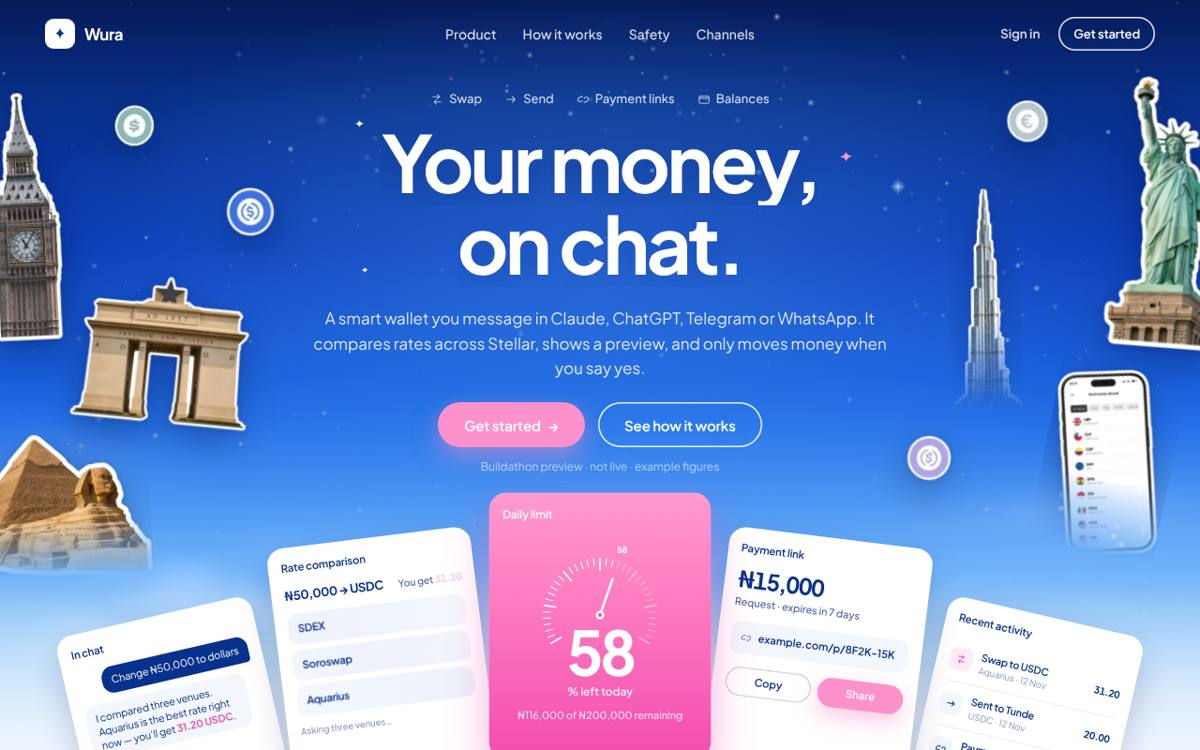
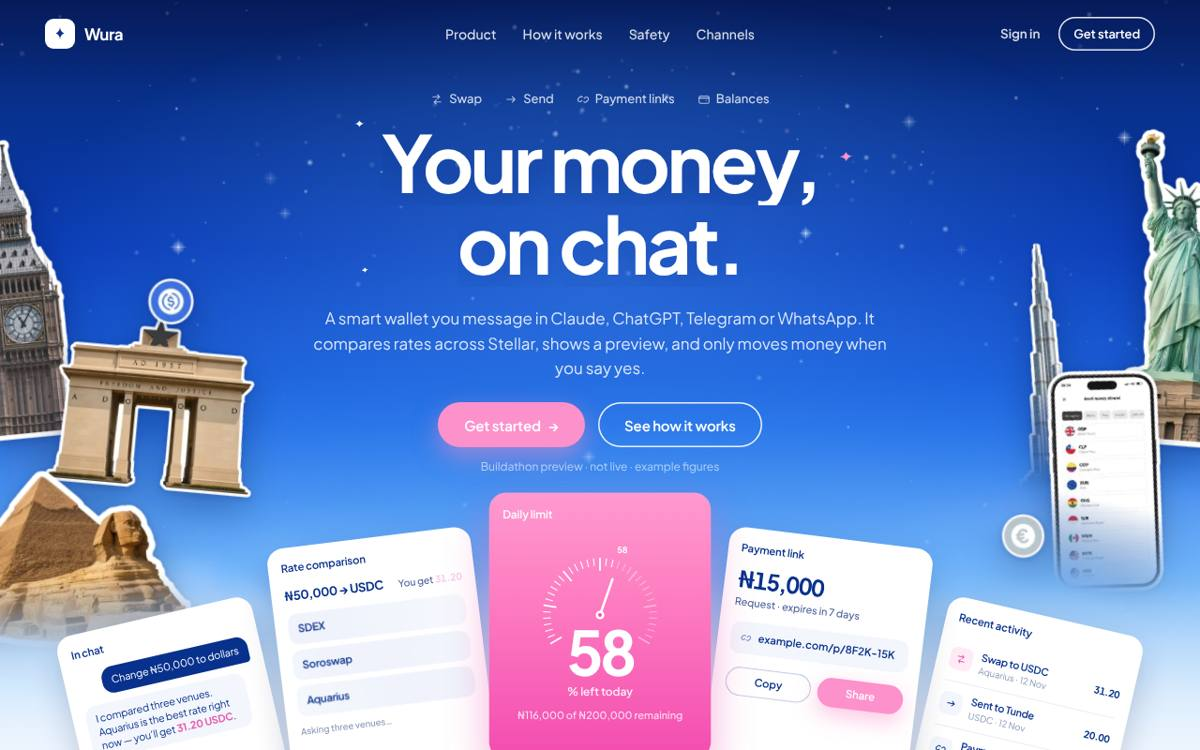
Landing hero: calmer sticker collage, one cluster per side
The hero had ten stickers spread from top to bottom, with coins floating
on their own, so it read as busy. Now each side is one overlapping
collage that sits low on the edge, bleeds off-screen and fades behind the
arc cards, which leaves the sky around the headline clear (closer to the
Payrit reference):
- left: Big Ben, Black Star Gate, pyramid and a USDC coin
- right: Statue of Liberty, Burj Khalifa, phone and a euro coin
The coin-dollar-teal and coin-usdc-lavender stickers are dropped from
the hero. At 1024-1279 only two landmarks per side show. The float is
smaller (3-5px) so the overlapping pieces move together.

Claude-Session: https://claude.ai/code/session_01XNbGihYLKHGXdNxQePbd3M

diff --git a/web/src/components/landing/hero-stickers.tsx b/web/src/components/landing/hero-stickers.tsx
@@ -28,18 +28,19 @@ type Spot = {
 };
 
 // Reference layout at 1440×900 (gutter beside the 620px text column = 410px).
+// One overlapping collage per side, low on the edges and bleeding off-screen,
+// so the sky above and around the headline stays clear (Payrit-style). Order
+// is paint order: later entries sit on top within a side.
 const DESKTOP: Spot[] = [
-  { name: "big-ben", side: "left", x: -16, top: 104, h: 330, rot: -4, depth: 0.7, from: "lg" },
-  { name: "coin-dollar-teal", side: "left", x: 150, top: 118, w: 54, rot: 8, depth: 1, from: "lg" },
-  { name: "coin-usdc-blue", side: "left", x: 300, top: 200, w: 64, rot: -10, depth: 0.9, from: "xl" },
-  { name: "black-star-gate", side: "left", x: 100, top: 300, w: 236, rot: 4, depth: 0.5, from: "xl" },
-  { name: "pyramid-sphinx", side: "left", x: -70, top: 470, w: 270, rot: -5, depth: 0.35, fade: true, from: "lg" },
+  { name: "big-ben", side: "left", x: -34, top: 150, h: 400, rot: -7, depth: 0.6, from: "lg" },
+  { name: "black-star-gate", side: "left", x: 64, top: 336, w: 280, rot: 5, depth: 0.45, from: "xl" },
+  { name: "pyramid-sphinx", side: "left", x: -90, top: 500, w: 340, rot: -4, depth: 0.3, fade: true, from: "lg" },
+  { name: "coin-usdc-blue", side: "left", x: 196, top: 300, w: 62, rot: -10, depth: 0.8, from: "xl" },
 
-  { name: "statue-of-liberty", side: "right", x: -40, top: 92, h: 360, rot: 3, depth: 0.6, from: "lg" },
-  { name: "coin-euro", side: "right", x: 200, top: 110, w: 56, rot: -8, depth: 1, from: "lg" },
-  { name: "burj-khalifa", side: "right", x: 236, top: 206, h: 300, rot: -2, depth: 0.45, fade: true, from: "xl" },
-  { name: "phone-currencies", side: "right", x: 40, top: 400, w: 170, rot: 10, depth: 0.4, fade: true, from: "lg" },
-  { name: "coin-usdc-lavender", side: "right", x: 330, top: 470, w: 60, rot: 9, depth: 0.85, from: "xl" },
+  { name: "statue-of-liberty", side: "right", x: -64, top: 140, h: 420, rot: 4, depth: 0.6, from: "lg" },
+  { name: "burj-khalifa", side: "right", x: 150, top: 262, h: 330, rot: -6, depth: 0.45, fade: true, from: "xl" },
+  { name: "phone-currencies", side: "right", x: 24, top: 392, w: 205, rot: 11, depth: 0.35, fade: true, from: "lg" },
+  { name: "coin-euro", side: "right", x: 206, top: 548, w: 58, rot: -8, depth: 0.8, from: "xl" },
 ];
 
 // 768–1023: four landmarks at ~70% and a coin per side, fixed px.
@@ -177,7 +178,7 @@ function HeroSticker({
             transition={{ duration: 0.8, delay: 0.95 + index * 0.07, ease: [0.22, 1, 0.36, 1] }}
             style={{ rotate: s.rot }}
           >
-            <Floater amount={reduce ? 0 : 6 + (index % 3) * 2} seed={index + s.name.length}>
+            <Floater amount={reduce ? 0 : 3 + (index % 2) * 2} seed={index + s.name.length}>
               <StickerImg name={s.name} sizes={`${maxW}px`} style={fadeMask ? { maskImage: fadeMask, WebkitMaskImage: fadeMask } : undefined} />
             </Floater>
           </motion.div>
